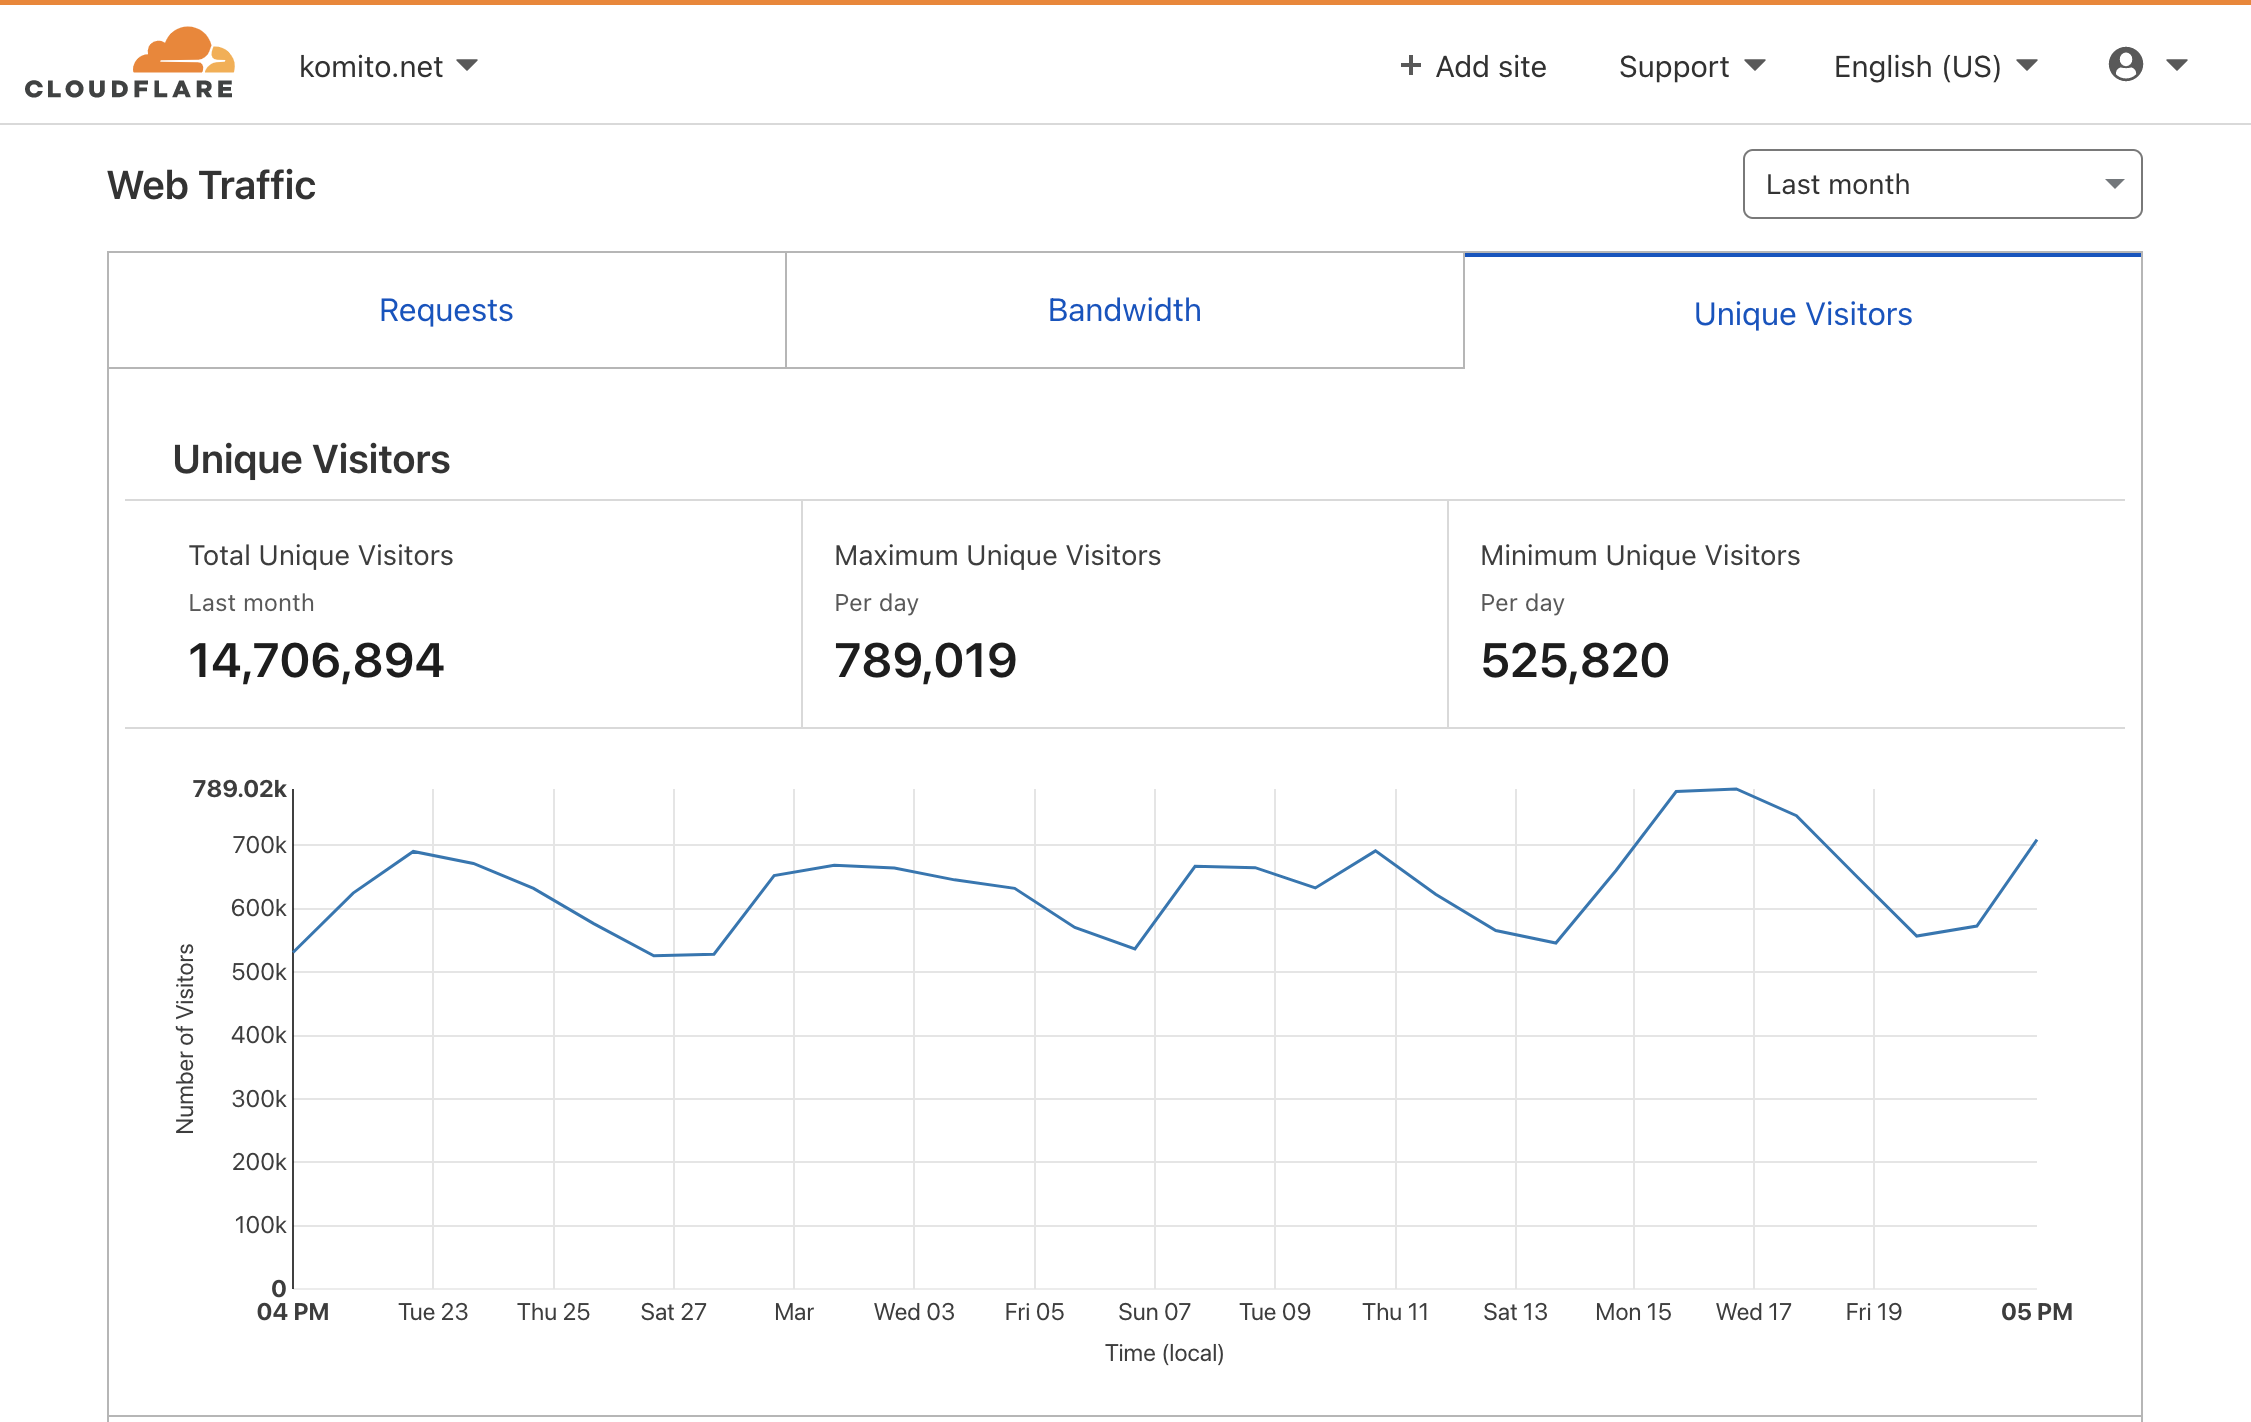
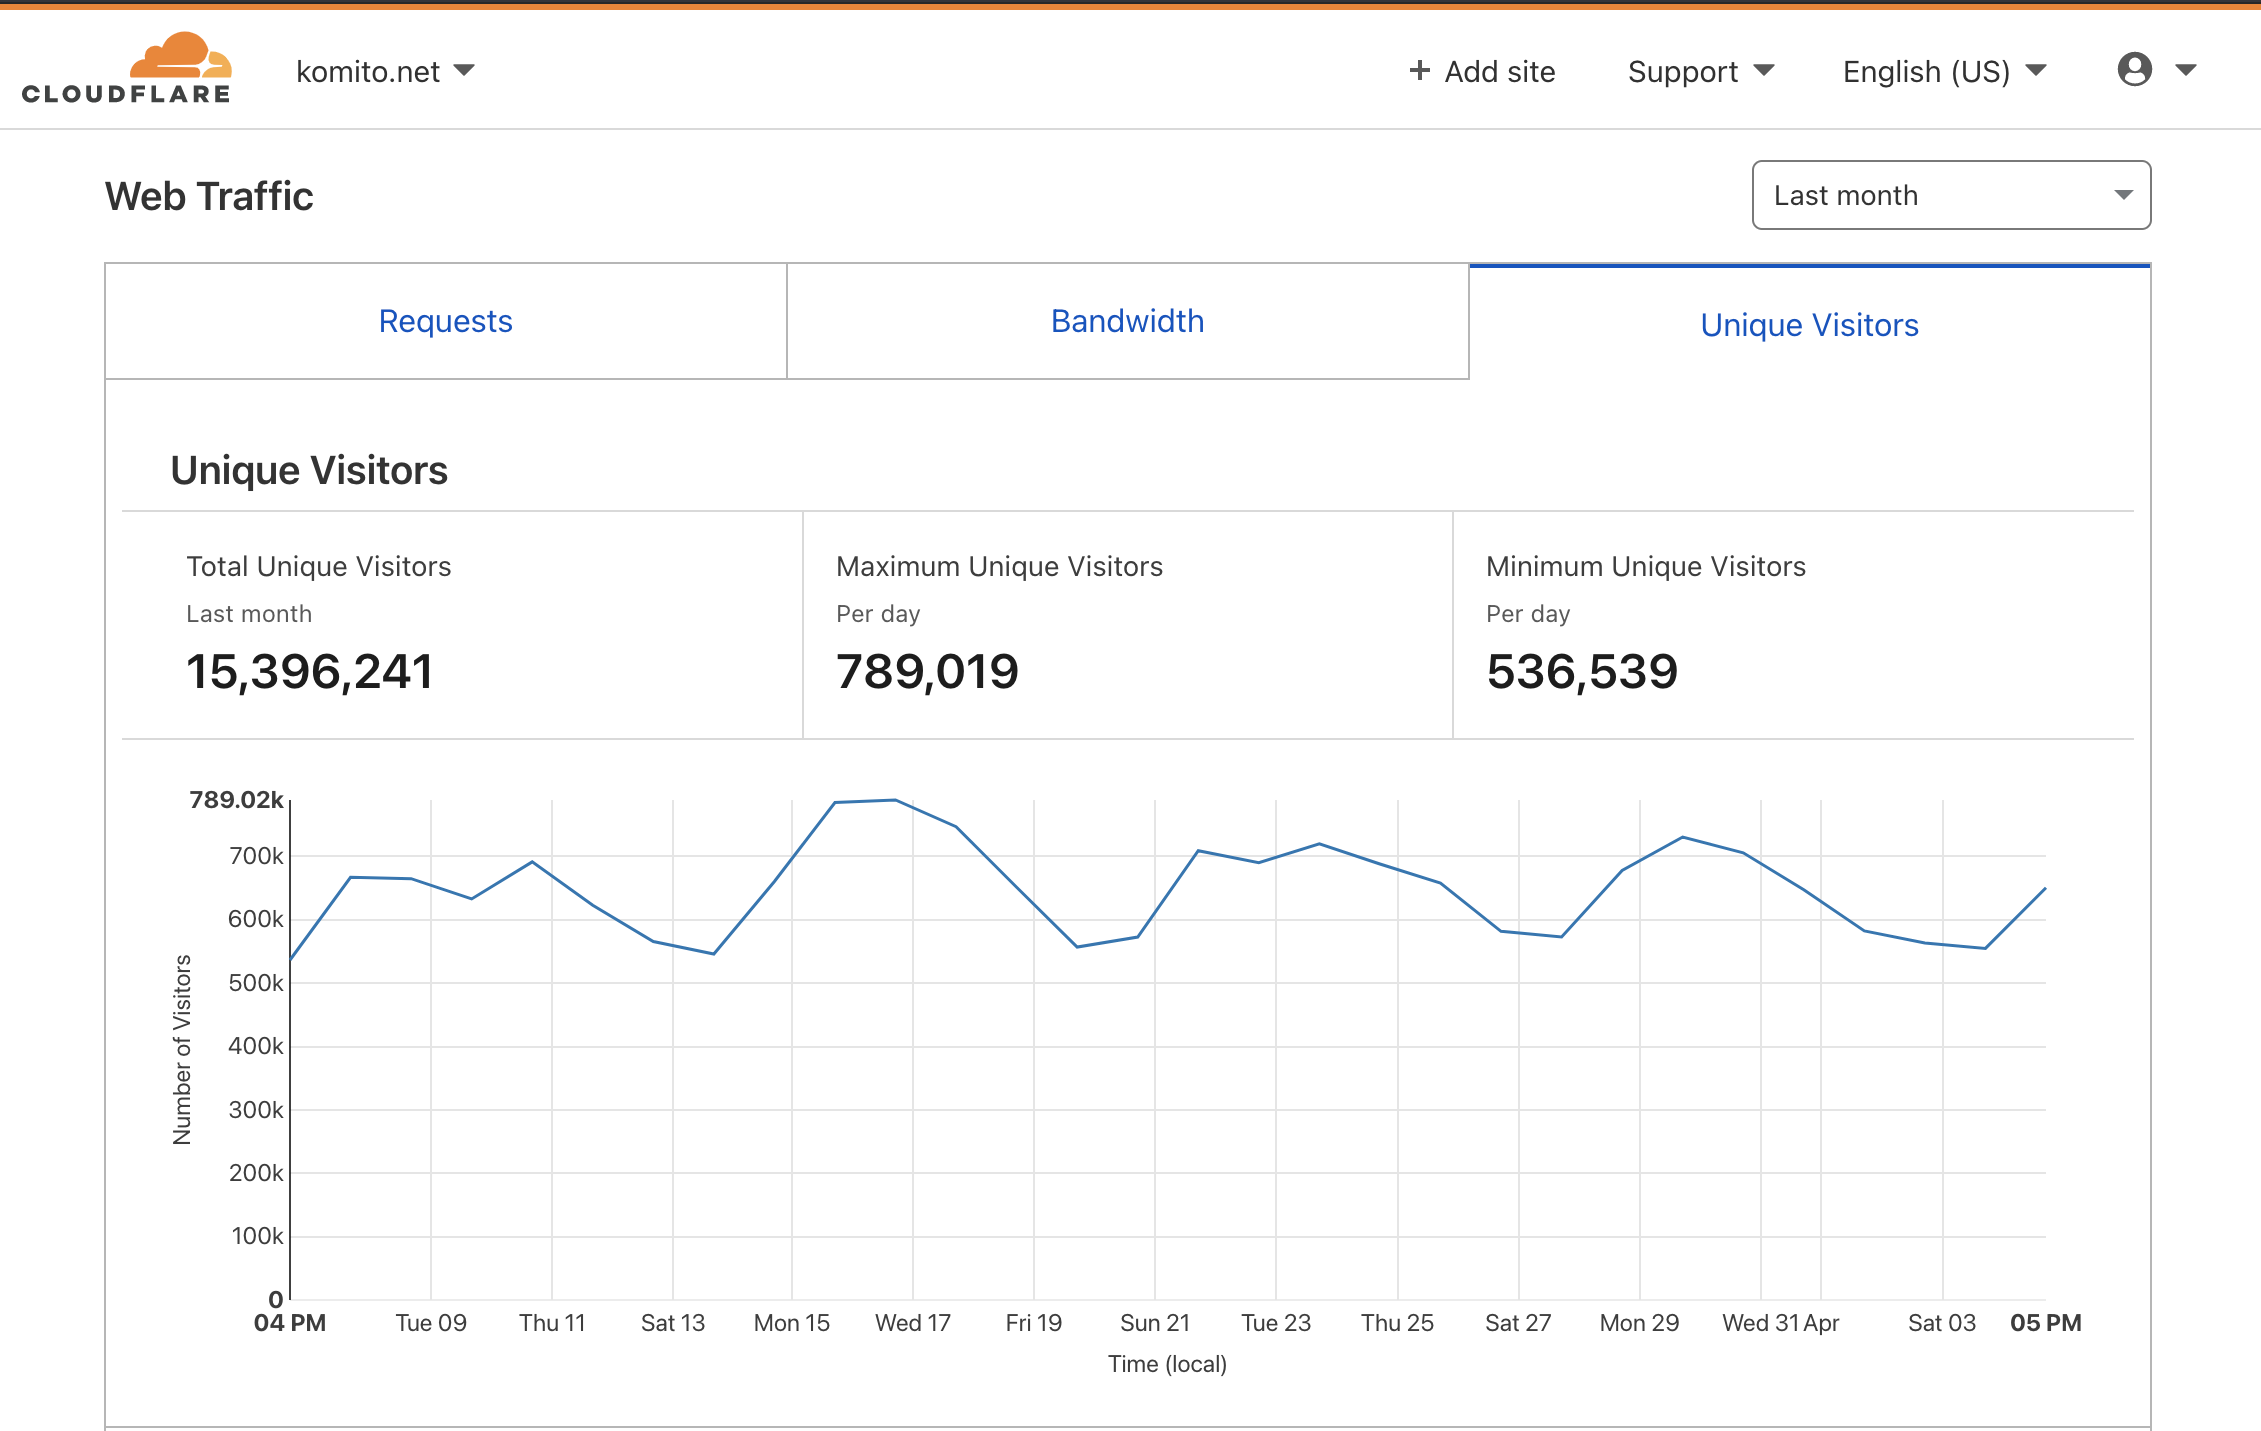
Updated visitors stats

diff --git a/about/index.html b/about/index.html
@@ -240,7 +240,7 @@
         <div class="cell">
           <ul>
             <li><b>Accomplishments:</b></li>
-            <li><b>14M+</b> unique visitors per month;</li>
+            <li><b>15M+</b> unique visitors per month;</li>
             <li><b>3</b> integration and support partners;</li>
             <li><b>7</b> supported web analytics software;</li>
             <li><b>1</b> plugin for CMS (<a href="../integration/wordpress/">WordPress</a>);</li>

diff --git a/worker.js b/worker.js
@@ -6,7 +6,7 @@
  * @see https://developers.google.com/web/fundamentals/primers/service-workers/
  */
 
-/** @const {string} */ var CACHE_KEY = 'komito-cache-20210322-2140';
+/** @const {string} */ var CACHE_KEY = 'komito-cache-20210406-1050';
 
 /** @const {!Array.<string>} */ var CACHE_URLS = [
   // Assets:
